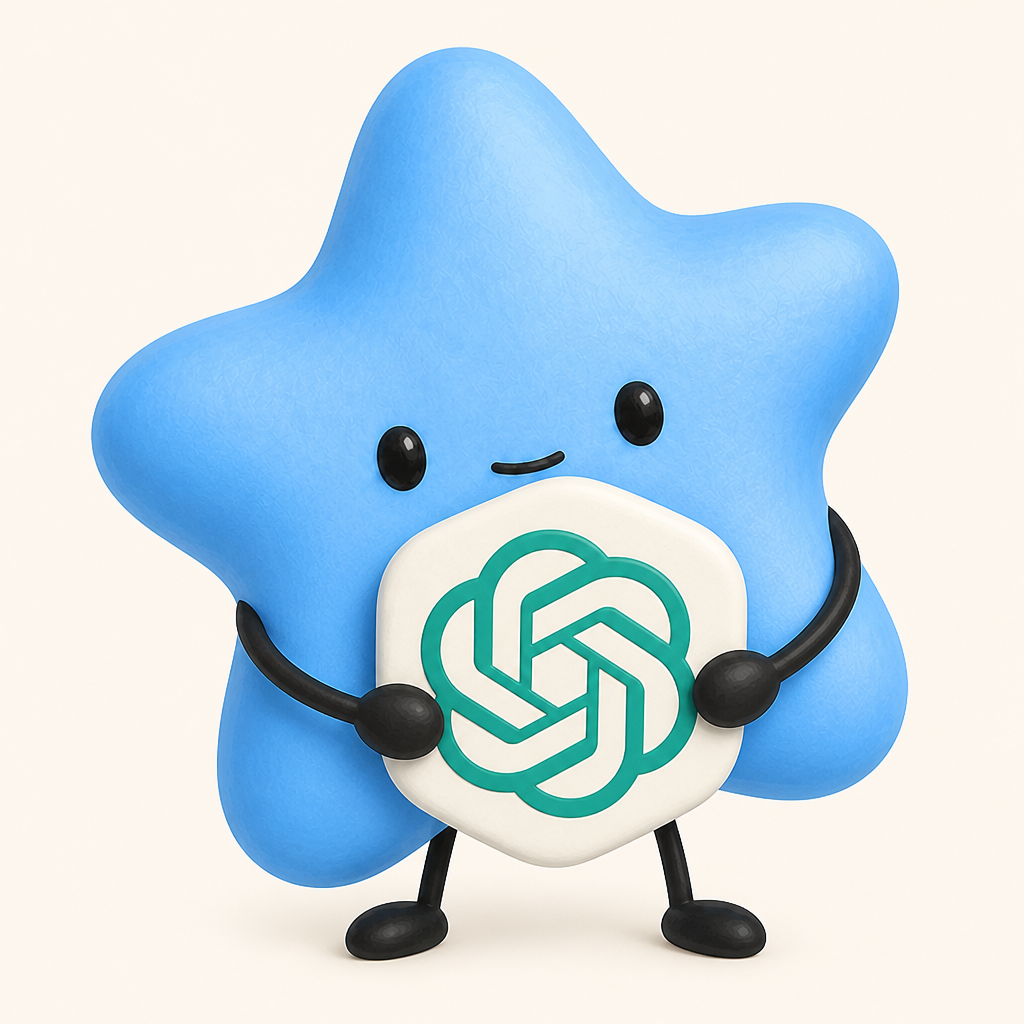
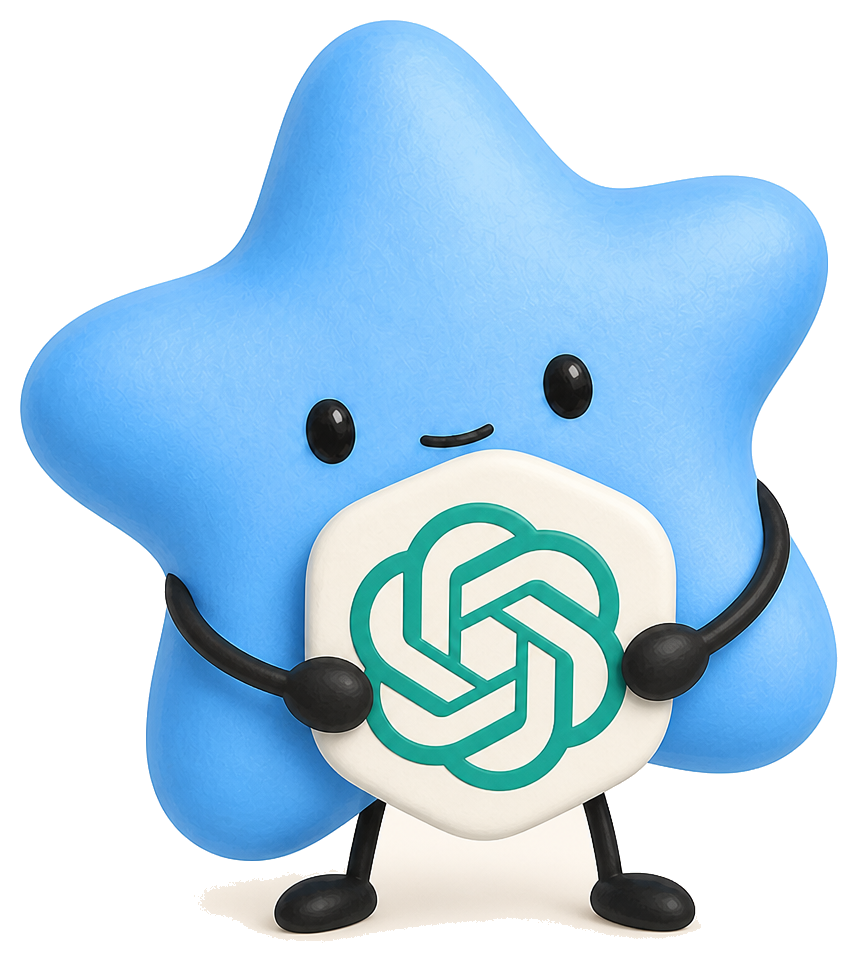
Pitch Viewfy in the README with a short product story.
Drop the setup notes, show the market map and competitor ads, and
cut the cream background from Astra so the mascot sits on GitHub.

diff --git a/README.md b/README.md
@@ -1,41 +1,21 @@
 <p align="center">
-  <img src="frontend/public/astra-hug-chatgpt.png" alt="Viewfy's blue star mascot hugging ChatGPT" width="320" />
+  <img src="frontend/public/astra-hug-chatgpt.png" alt="Astra, Viewfy’s blue star mascot, hugging ChatGPT" width="280" />
 </p>
 
 # Viewfy 💙 GPT Ads
 
-One business domain → an editable business map → competitor research → ad concepts → a ChatGPT ad creative. Confirm your map before research starts.
+Paste a domain. Astra maps your business, the ads your competitors already run, and the questions buyers still ask — then helps you launch a ChatGPT ad.
 
-**Built with Astra.** React + Vite frontend, FastAPI backend.
+[Open Viewfy](https://ads.viewfy.ai)
 
-[Open Viewfy](https://ads.viewfy.ai) · [Explore the imagined designs](docs/design-concepts.md)
+## The whole market, one map
 
-## Run locally
+See your product, channels, competitors, and buyer questions in one place. Confirm the map before research starts.
 
-```bash
-cp .env.example .env
-python3 -m venv .venv
-source .venv/bin/activate
-pip install -r backend/requirements.txt
-npm ci --prefix frontend
+![Viewfy market map for Superagent](docs/market-map.png)
 
-# Terminal 1, from the repository root
-.venv/bin/uvicorn app:app --app-dir backend --host 127.0.0.1 --port 9410
+## See the ads they already run
 
-# Terminal 2, from the repository root
-npm --prefix frontend run dev
-```
+Open a competitor and read the public creatives behind each channel — including ChatGPT ads.
 
-Open [localhost:5173](http://localhost:5173) and try `getsuperagent.com`.
-
-Superagent opens its reviewed business map and public-channel snapshot immediately. It does not start a new crawl or add a simulated loading delay. Other domains use the live website-reading flow.
-
-## Campaign launch
-
-Campaign submission is paused by default (`LIVE_CAMPAIGN_SUBMISSION_ENABLED=0`). The primary action saves the setup and continues to Next Steps without requiring an account connection or submitting ads. The server also defers requests to `/launch` from older pages, preserving the saved campaign and creative. Live submission requires explicitly enabling `LIVE_CAMPAIGN_SUBMISSION_ENABLED=1`; this does not change the current website’s save-and-continue flow.
-
-Research and generation use live integrations by default (`MOCK=0`). Add server-side keys to `.env`: `OPENAI_API_KEY` for text/images and `APIFY_TOKEN` for Meta + Google ad research. `OPENAI_ADS_API_KEY` configures the Ads Manager account for future live submission.
-
-See [the research notes](docs/research/README.md) for coverage, advertiser identity, source limitations, and rebuilding the snapshot. Missing activity and performance data remain unknown; generated campaign concepts are separate from observed ads.
-
-For development, `MOCK=1` selects fixture-backed research and creative generation; it does not enable campaign submission. Automated launch tests stub the network explicitly. See [.env.example](.env.example) for optional settings.
+![Smith.ai ChatGPT ad captures on the Viewfy map](docs/competitor-ads.png)
